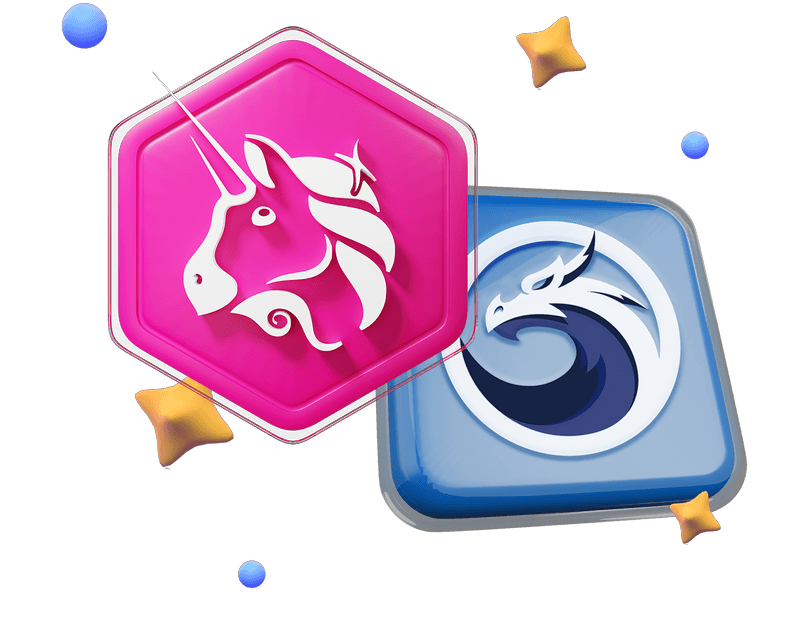
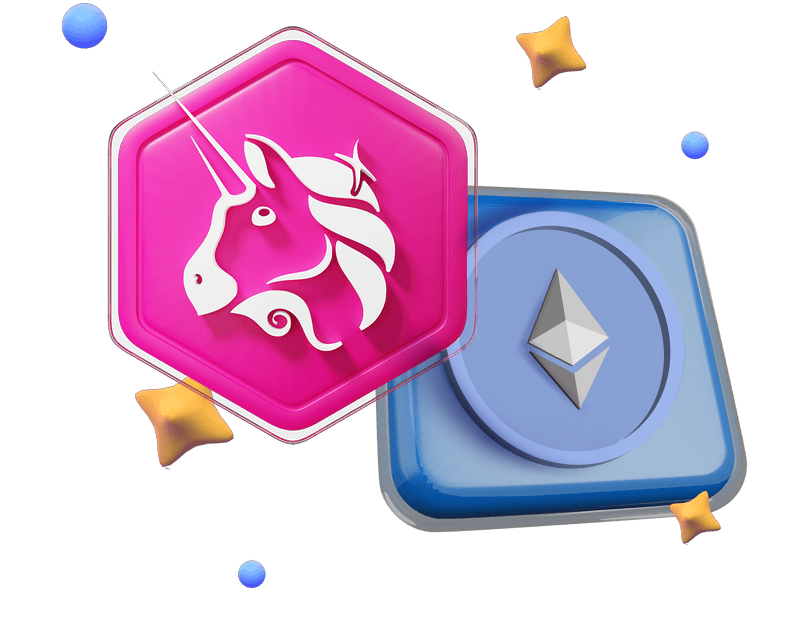
"final updation"

Changed region(s): [[0.5, 0.3079, 0.875, 0.7699]]

diff --git a/index.html b/index.html
@@ -192,7 +192,7 @@
 
                     </div>
                     <div class="col-lg-6 col-lg-6 col-sm-12">
-                        <img class="w-100 px-5 pt-5" src="Assets/img/Untitled_design__2_-removebg-preview.png" alt="">
+                        <img class="w-100 px-5 pt-5" src="Assets/img/section-3.png" alt="">
 
                     </div>
                 </div>
